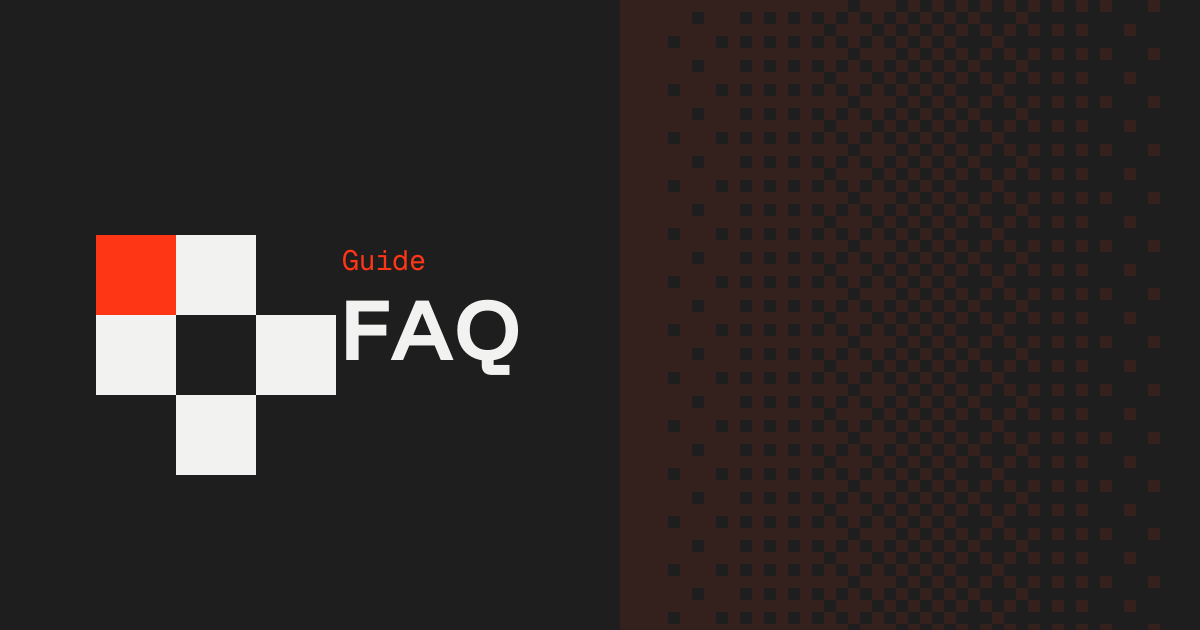
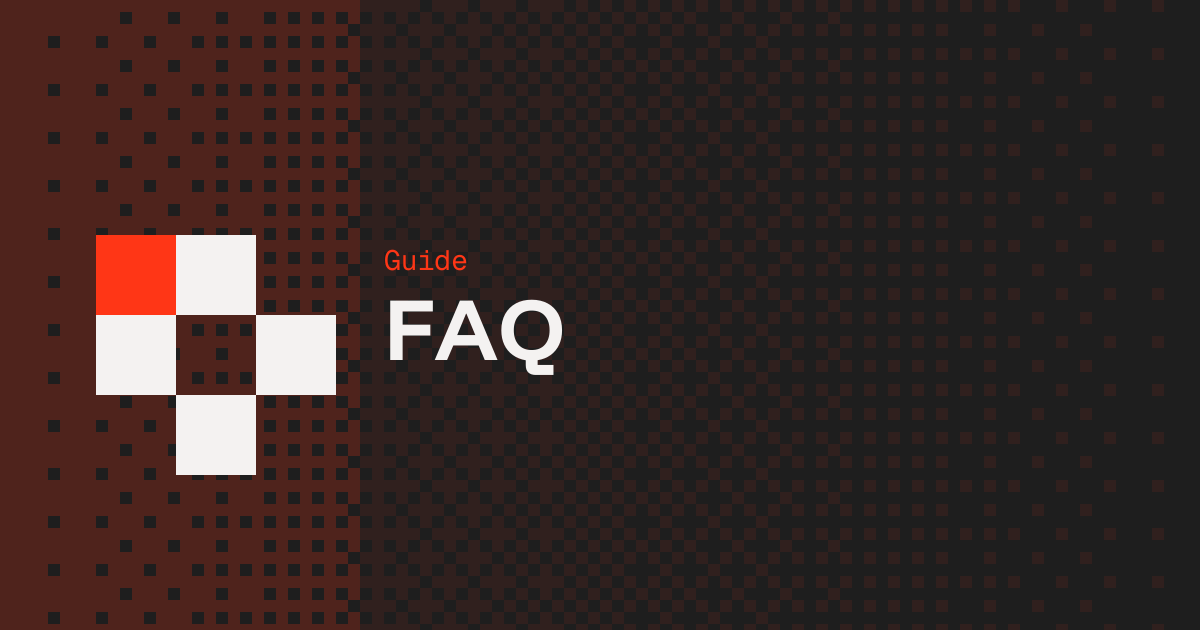
feat(site): full-bleed dither OG cards
Sweep the Ember field across the full measure. Shared margin grid with air off the mark. Brand Warm, dead token removed.

Changed region(s): [[0.0, 0.0, 0.4933, 1.0]]

diff --git a/scripts/make_og_images.py b/scripts/make_og_images.py
@@ -36,9 +36,10 @@ FONTS = ROOT / ".github" / "assets" / "fonts"
 
 W, H = 1200, 630
 INK = "#1E1E1E"
-WARM = "#F2F2F0"
-MUTED = "#A8A29E"
+WARM = "#F4F2F1"
 EMBER = "#FF3616"
+MARGIN = 96
+TEXT_X = 384
 
 DISPLAY = FONTS / "FunnelDisplay-Bold.otf"
 MONO = FONTS / "GeistMono-Regular.otf"
@@ -114,16 +115,15 @@ def render(title: str, eyebrow: str, slug: str) -> bytes:
     seed = int.from_bytes(hashlib.sha256(slug.encode("utf-8")).digest()[:8], "big")
     sweep = dither_dots(
         seed,
-        W - 620.0,
+        float(W),
         float(H),
         cell=12.0,
-        stops=((0.30, EMBER, 0.10),),
-        x0=620.0,
+        stops=((0.30, EMBER, 0.08), (0.70, EMBER, 0.22)),
     )
-    max_w = W - 420.0
+    max_w = W - TEXT_X - MARGIN
     title_size = fit_size(display, dcmap, dupem, title, 88.0, max_w)
-    title_d, _ = text_path(display, dcmap, dupem, title_size, title, 340.0, 360.0)
-    eye_d, _ = text_path(mono, mcmap, mupem, 28.0, eyebrow, 342.0, 270.0)
+    title_d, _ = text_path(display, dcmap, dupem, title_size, title, float(TEXT_X), 360.0)
+    eye_d, _ = text_path(mono, mcmap, mupem, 28.0, eyebrow, float(TEXT_X), 270.0)
 
     mark = "\n".join(
         f'  <rect x="{96 + x}" y="{235 + y}" width="80" height="80" fill="{fill}"/>'
